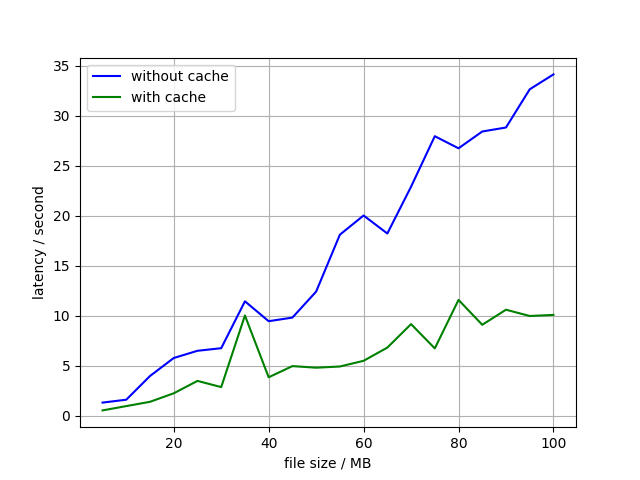
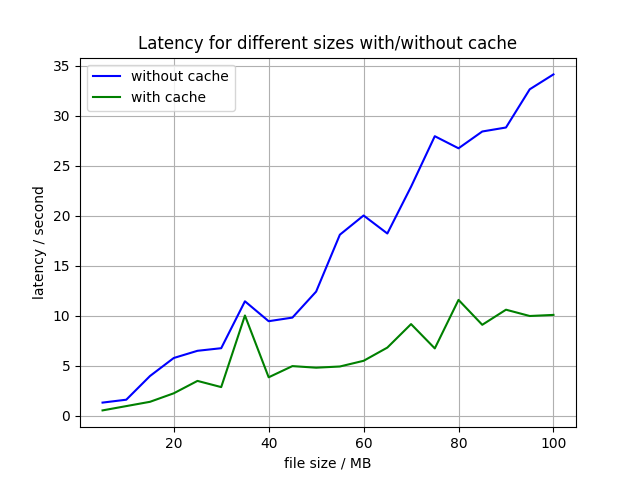
update README.md; clear up codes

Changed region(s): [[0.2188, 0.0625, 0.8125, 0.125]]

diff --git a/experiments/exp1_timeWithoutCache.py b/experiments/exp1_timeWithoutCache.py
@@ -7,10 +7,11 @@ if not os.path.exists('result'):
     os.makedirs('result')
 
 logPath = "./result/timeWithoutCache.txt"
+cacheIP = "10.10.1.2"
 
 for size in range(5, 101, 5):
 	fname = "file.{}M".format(size)
-	url = "http://10.10.1.1:8080/static/cache/{}".format(fname)
+	url = "http://{}:8080/static/cache/{}".format(cacheIP, fname)
 
 	start = time.time()
 	requests.get(url, headers={'Cache-Control': 'no-cache'})

diff --git a/experiments/exp1_plot.py b/experiments/exp1_plot.py
@@ -23,11 +23,12 @@ def plot(X1, Y1, X2, Y2):
 
     plt.xlabel('file size / MB')
     plt.ylabel('latency / second')
+    plt.title('Latency for different sizes with/without cache')
 
     plt.grid(True)
     plt.legend()
 
-    plt.savefig('withOrWithoutCache.png')
+    plt.savefig('./result/exp1.png')
     
 # create folder 'result' if not exist
 if not os.path.exists('result'):

diff --git a/experiments/exp1_timeWithCache.py b/experiments/exp1_timeWithCache.py
@@ -7,10 +7,11 @@ if not os.path.exists('result'):
     os.makedirs('result')
 
 logPath = "./result/timeWithCache.txt"
+cacheIP = "10.10.1.2"
 
 for size in range(5, 101, 5):
 	fname = "file.{}M".format(size)
-	url = "http://10.10.1.1:8080/static/cache/{}".format(fname)
+	url = "http://{}:8080/static/cache/{}".format(cacheIP, fname)
 
 	start = time.time()
 	requests.get(url)

diff --git a/README.md b/README.md
@@ -1,18 +1,22 @@
-# CS655GENI Mini Project
+# CS655GENI Mini Project - Web Cache
+
+*Fuqing Wang, Jian Ma, Jun Li, Tian Chen*
 
 > Note: Please check the IP address for each node before configuration. For example, if the IP address for `cache` node is `10.10.1.1`, so you need to replace all `10.10.1.2` with `10.10.1.1` for any involved configuration below.
+>
+> Here we assume you are familiar with basic Linux commands, and know how to login to GENI nodes using `ssh`.
 
 ## 1 Configurations
 
 ### 1.1 Proxy (cache) server ([Apache Traffic Server 7.1.2](https://docs.trafficserver.apache.org/en/7.1.x/))
 
-1. Install ATS (Install from source code is preferred, see [here](https://docs.trafficserver.apache.org/en/latest/getting-started/index.en.html#installation))
+1. Install ATS (Install from source code is preferred, see [here](https://docs.trafficserver.apache.org/en/latest/getting-started/index.en.html#installation), note that the trafficserver commands & configurations will be under directory `/opt/ts/`)
 
    ```bash
    sudo apt-get update && sudo apt-get install trafficserver
    ```
 
-2. Fix bug ([link](https://serverfault.com/questions/917583/trafficserver-crashes-after-upgrade-to-ubuntu-bionic-segmentation-fault-address))
+2. Fix bug if you install ATS from apt-get ([reference](https://serverfault.com/questions/917583/trafficserver-crashes-after-upgrade-to-ubuntu-bionic-segmentation-fault-address))
 
    ```bash
    sudo mkdir /var/run/trafficserver
@@ -25,7 +29,7 @@
    sudo vim /etc/trafficserver/remap.config
    ```
 
-   Then add four mapping rules (make sure the IP address and port is correct):
+   Then add a mapping rule (in order to set ATS as a reversed proxy):
 
    ```
    map http://10.10.1.2:8080/ http://10.10.2.2:80/
@@ -39,13 +43,13 @@
    sudo vim /etc/trafficserver/records.config
    ```
 
-   Modify the following line:
+   Modify the following line (cache all objects no matter what the request header is):
 
    ```
    CONFIG proxy.config.http.cache.required_headers INT 0
    ```
 
-   Then save and quit vim
+   Then save and quit vim using `:wq`.
 
 5. Filter URL for objects that are not to be cached
 
@@ -53,7 +57,7 @@
    sudo vim /etc/trafficserver/cache.config
    ```
 
-   Add line: (this line means any object with suffix `nocache` will never be cached by ATS)
+   Add rule: (this rule means any object from any host with suffix `nocache` will never be cached by ATS)
 
    ```
    dest_domain=. suffix=nocache action=never-cache
@@ -108,7 +112,7 @@
 3. Set link delay
 
    ```bash
-   sudo tc qdisc add dev eth1 root netem delay 30ms
+   sudo tc qdisc add dev eth1 root netem delay 100ms
    ```
 
 4. Generate file for experiments
@@ -118,7 +122,7 @@
    sudo bash generateFile.sh
    ```
 
-   > This step will download a script called `generateFile.sh`. Two folders - `cache/` and `nocache/` will be created with 20 files of size from 5MB to 100MB.
+   > This step will download a script called `generateFile.sh`. Two folders - `cache/` and `nocache/` will be created with 20 files of size from 5MB to 100MB generated.
 
 ### 1.3 Client
 
@@ -137,7 +141,7 @@
 
    > Library 'matplotlib' will be used to plot line charts.
 
-
+<br>
 
 ---
 
@@ -157,7 +161,7 @@
    wget pcvm1-19.genirack.nyu.edu/static/experiments/exp2_plot.py
    ```
 
-   > Note: Please check the IP address for 'cache' node. If the IP address for `cache` node is `10.10.1.1`, so you need to replace all `10.10.1.2` with `10.10.1.1` for any involved experiments retrieved above.
+   > Note: Please check the IP address for 'cache' node. If the IP address for `cache` node is `10.10.1.1`, so you need to replace all `10.10.1.2` with `10.10.1.1` for any involved experiment code retrieved above.
 
 ### 2.2 Check if ATS works
 
@@ -168,6 +172,73 @@
    ```bash
    sudo /etc/init.d/trafficserver status
    ```
+
+<br>
+
+---
+
+## 3 Run experiments
+
+### 3.1 Experiment 1
+
+Now there are no cached object in proxy server, we can run this:
+
+```bash
+python3 exp1_timeWithoutCache.py
+```
+
+The result will be written into `./result/timeWithoutCache.txt`, each line is a pair of file size and latency (in seconds), separated by a 'tab'.
+
+Then to measure latencies to retrieve files with cache:
+
+```bash
+python3 exp1_timeWithCache.py
+```
+
+Similarly, the result will be recorded as `./result/timeWithCache.txt`.
+
+Eventually we can get the plot of cache vs no-cache by:
+
+```bash
+python3 exp1_plot.py
+```
+
+The plot will be generated as `./result/exp1.png`
+
+Our plot look like this:
+
+<img src="https://github.com/FuqingWang/CS655GENI/blob/main/experiments/result/exp1.png?raw=true" style="zoom:50%;" />
+
+
+
+### 3.2 Experiment 2
+
+First to get the average latency for a file of fixed size as a function of hit rate, execute the following command:
+
+```bash
+# example: python3 exp2_hitrate.py -l 100 -s 10
+python3 exp2_hitrate.py -l [loop times] -s [file size]
+```
+
+The result will be recorded as `./result/latency_hitrate_[file size].txt`.
+
+Then to get a plot of latency as a function of hit rate, run the following command:
+
+```bash
+python3 exp2_plot.py -s [file size]
+```
+
+> Note: `[file size]` here should be same as the value when you run `exp2_hitrate.py`.
+
+The plot will be generated as `./result/exp2_[file szie]MB.png`
+
+Our plot look like this:
+
+<img src="https://github.com/FuqingWang/CS655GENI/blob/main/experiments/result/exp2_10MB.png?raw=true" style="zoom:30%;" />
+
+<img src="https://github.com/FuqingWang/CS655GENI/blob/main/experiments/result/exp2_20MB.png?raw=true" style="zoom:55%;" />
+
+<img src="https://github.com/FuqingWang/CS655GENI/blob/main/experiments/result/exp2_30MB.png?raw=true" style="zoom:55%;" />
 
 
 
